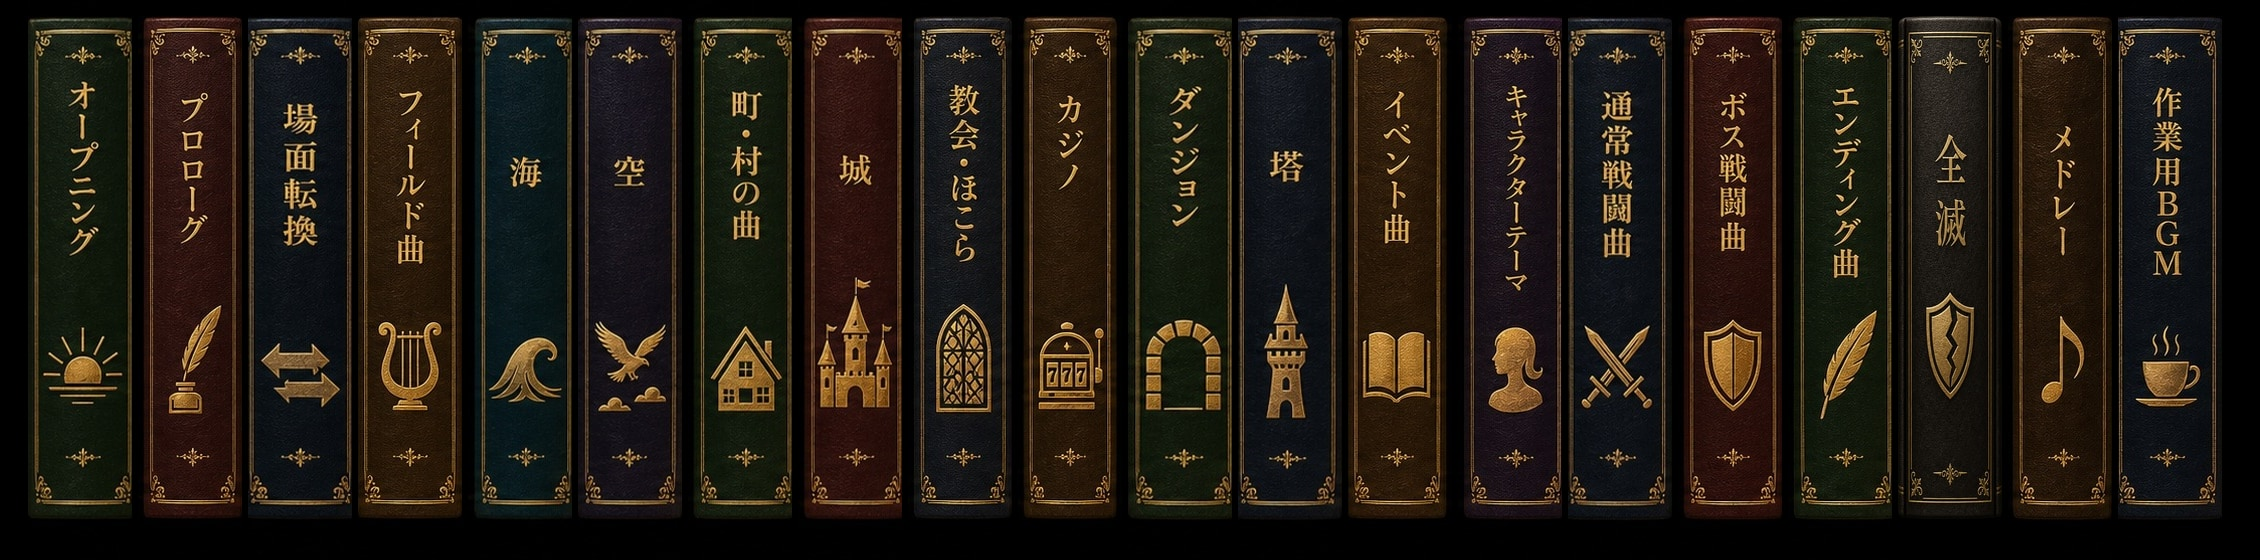
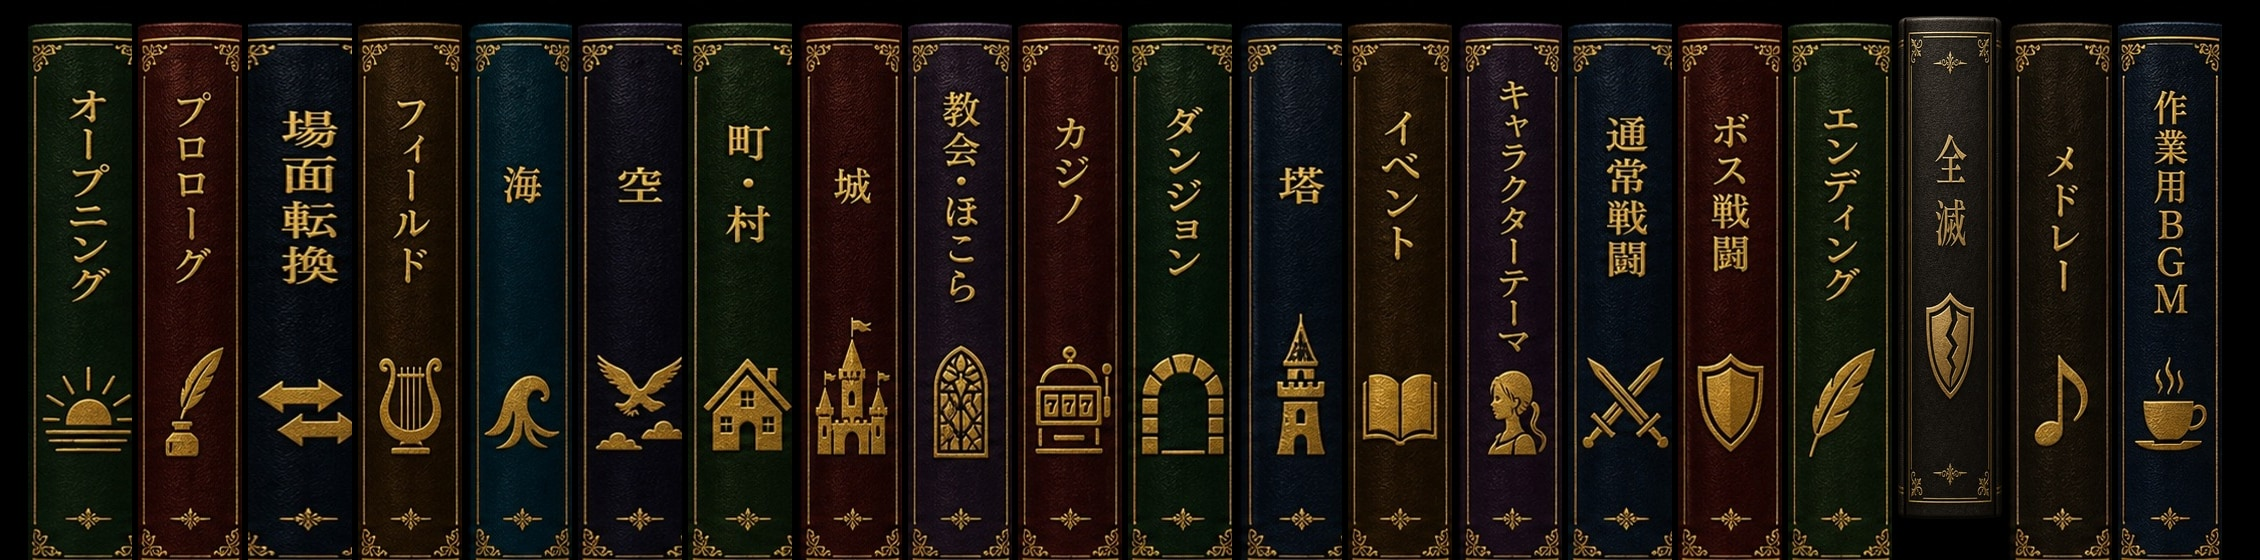
Refine bookshelf link alignment

Changed region(s): [[0.0, 0.0304, 0.8363, 1.0], [0.8673, 0.0304, 0.9912, 1.0]]

diff --git a/index.html b/index.html
@@ -214,7 +214,7 @@
   </header>
 
   <main class="page">
-    <section class="section seo-hub-links bookcase-library" id="seo-links"><div class="seo-hub-block bookcase-block"><div class="section-heading compact-heading shelf-heading"><p class="section-kicker">Series</p><h3>シリーズ別ライブラリー</h3></div><div class="bookcase-scroll bookcase-scroll-series" aria-label="シリーズ別ライブラリー"><div class="bookcase-shelf bookcase-shelf-series"><a class="book-spine book-spine-series tone-green" style="--book-index:0" href="/dq1/" aria-label="DQ I"><span class="book-spine-ornament" aria-hidden="true"></span><span class="book-spine-title">DQ</span> <span class="book-spine-code">I</span><span class="book-spine-subtitle">ドラゴンクエストI</span></a><a class="book-spine book-spine-series tone-wine" style="--book-index:1" href="/dq2/" aria-label="DQ II"><span class="book-spine-ornament" aria-hidden="true"></span><span class="book-spine-title">DQ</span> <span class="book-spine-code">II</span><span class="book-spine-subtitle">ドラゴンクエストII</span></a><a class="book-spine book-spine-series tone-navy" style="--book-index:2" href="/dq3/" aria-label="DQ III"><span class="book-spine-ornament" aria-hidden="true"></span><span class="book-spine-title">DQ</span> <span class="book-spine-code">III</span><span class="book-spine-subtitle">ドラゴンクエストIII</span></a><a class="book-spine book-spine-series tone-brown" style="--book-index:3" href="/dq4/" aria-label="DQ IV"><span class="book-spine-ornament" aria-hidden="true"></span><span class="book-spine-title">DQ</span> <span class="book-spine-code">IV</span><span class="book-spine-subtitle">ドラゴンクエストIV</span></a><a class="book-spine book-spine-series tone-purple" style="--book-index:4" href="/dq5/" aria-label="DQ V"><span class="book-spine-ornament" aria-hidden="true"></span><span class="book-spine-title">DQ</span> <span class="book-spine-code">V</span><span class="book-spine-subtitle">ドラゴンクエストV</span></a><a class="book-spine book-spine-series tone-olive" style="--book-index:5" href="/dq6/" aria-label="DQ VI"><span class="book-spine-ornament" aria-hidden="true"></span><span class="book-spine-title">DQ</span> <span class="book-spine-code">VI</span><span class="book-spine-subtitle">ドラゴンクエストVI</span></a><a class="book-spine book-spine-series tone-green" style="--book-index:6" href="/dq7/" aria-label="DQ VII"><span class="book-spine-ornament" aria-hidden="true"></span><span class="book-spine-title">DQ</span> <span class="book-spine-code">VII</span><span class="book-spine-subtitle">ドラゴンクエストVII</span></a><a class="book-spine book-spine-series tone-wine" style="--book-index:7" href="/dq8/" aria-label="DQ VIII"><span class="book-spine-ornament" aria-hidden="true"></span><span class="book-spine-title">DQ</span> <span class="book-spine-code">VIII</span><span class="book-spine-subtitle">ドラゴンクエストVIII</span></a><a class="book-spine book-spine-series tone-navy" style="--book-index:8" href="/dq9/" aria-label="DQ IX"><span class="book-spine-ornament" aria-hidden="true"></span><span class="book-spine-title">DQ</span> <span class="book-spine-code">IX</span><span class="book-spine-subtitle">ドラゴンクエストIX</span></a><a class="book-spine book-spine-series tone-brown" style="--book-index:9" href="/dq10/" aria-label="DQ X"><span class="book-spine-ornament" aria-hidden="true"></span><span class="book-spine-title">DQ</span> <span class="book-spine-code">X</span><span class="book-spine-subtitle">ドラゴンクエストX</span></a><a class="book-spine book-spine-series tone-purple" style="--book-index:10" href="/dq11/" aria-label="DQ XI"><span class="book-spine-ornament" aria-hidden="true"></span><span class="book-spine-title">DQ</span> <span class="book-spine-code">XI</span><span class="book-spine-subtitle">ドラゴンクエストXI</span></a></div></div></div><div class="seo-hub-block bookcase-block"><div class="section-heading compact-heading shelf-heading"><p class="section-kicker">Categories</p><h3>カテゴリ別ライブラリー</h3></div><div class="bookcase-scroll bookcase-scroll-category" aria-label="カテゴリ別ライブラリー"><div class="bookcase-shelf bookcase-shelf-category"><a class="book-spine book-spine-category tone-green" style="--book-index:0" href="/category/opening/" aria-label="オープニング"><span class="book-spine-ornament" aria-hidden="true"></span><span class="book-spine-title">オープニング</span> <span class="book-spine-icon" aria-hidden="true">◇</span><span class="book-spine-subtitle">カテゴリ別ページ</span></a><a class="book-spine book-spine-category tone-wine" style="--book-index:1" href="/category/prologue/" aria-label="プロローグ"><span class="book-spine-ornament" aria-hidden="true"></span><span class="book-spine-title">プロローグ</span> <span class="book-spine-icon" aria-hidden="true">♩</span><span class="book-spine-subtitle">カテゴリ別ページ</span></a><a class="book-spine book-spine-category tone-navy" style="--book-index:2" href="/category/interlude/" aria-label="場面転換"><span class="book-spine-ornament" aria-hidden="true"></span><span class="book-spine-title">場面転換</span> <span class="book-spine-icon" aria-hidden="true">↔</span><span class="book-spine-subtitle">カテゴリ別ページ</span></a><a class="book-spine book-spine-category tone-brown" style="--book-index:3" href="/category/field/" aria-label="フィールド曲"><span class="book-spine-ornament" aria-hidden="true"></span><span class="book-spine-title">フィールド曲</span> <span class="book-spine-icon" aria-hidden="true">♪</span><span class="book-spine-subtitle">カテゴリ別ページ</span></a><a class="book-spine book-spine-category tone-purple" style="--book-index:4" href="/category/sea/" aria-label="海"><span class="book-spine-ornament" aria-hidden="true"></span><span class="book-spine-title">海</span> <span class="book-spine-icon" aria-hidden="true">〜</span><span class="book-spine-subtitle">カテゴリ別ページ</span></a><a class="book-spine book-spine-category tone-olive" style="--book-index:5" href="/category/sky/" aria-label="空"><span class="book-spine-ornament" aria-hidden="true"></span><span class="book-spine-title">空</span> <span class="book-spine-icon" aria-hidden="true">◇</span><span class="book-spine-subtitle">カテゴリ別ページ</span></a><a class="book-spine book-spine-category tone-green" style="--book-index:6" href="/category/town-village/" aria-label="町・村の曲"><span class="book-spine-ornament" aria-hidden="true"></span><span class="book-spine-title">町・村の曲</span> <span class="book-spine-icon" aria-hidden="true">⌂</span><span class="book-spine-subtitle">カテゴリ別ページ</span></a><a class="book-spine book-spine-category tone-wine" style="--book-index:7" href="/category/castle/" aria-label="城"><span class="book-spine-ornament" aria-hidden="true"></span><span class="book-spine-title">城</span> <span class="book-spine-icon" aria-hidden="true">⌂</span><span class="book-spine-subtitle">カテゴリ別ページ</span></a><a class="book-spine book-spine-category tone-navy" style="--book-index:8" href="/category/church-shrine/" aria-label="教会・ほこら"><span class="book-spine-ornament" aria-hidden="true"></span><span class="book-spine-title">教会・ほこら</span> <span class="book-spine-icon" aria-hidden="true">◇</span><span class="book-spine-subtitle">カテゴリ別ページ</span></a><a class="book-spine book-spine-category tone-brown" style="--book-index:9" href="/category/casino/" aria-label="カジノ"><span class="book-spine-ornament" aria-hidden="true"></span><span class="book-spine-title">カジノ</span> <span class="book-spine-icon" aria-hidden="true">♬</span><span class="book-spine-subtitle">カテゴリ別ページ</span></a><a class="book-spine book-spine-category tone-purple" style="--book-index:10" href="/category/dungeon/" aria-label="ダンジョン"><span class="book-spine-ornament" aria-hidden="true"></span><span class="book-spine-title">ダンジョン</span> <span class="book-spine-icon" aria-hidden="true">◇</span><span class="book-spine-subtitle">カテゴリ別ページ</span></a><a class="book-spine book-spine-category tone-olive" style="--book-index:11" href="/category/tower/" aria-label="塔"><span class="book-spine-ornament" aria-hidden="true"></span><span class="book-spine-title">塔</span> <span class="book-spine-icon" aria-hidden="true">⌂</span><span class="book-spine-subtitle">カテゴリ別ページ</span></a><a class="book-spine book-spine-category tone-green" style="--book-index:12" href="/category/event/" aria-label="イベント曲"><span class="book-spine-ornament" aria-hidden="true"></span><span class="book-spine-title">イベント曲</span> <span class="book-spine-icon" aria-hidden="true">◇</span><span class="book-spine-subtitle">カテゴリ別ページ</span></a><a class="book-spine book-spine-category tone-wine" style="--book-index:13" href="/category/character-theme/" aria-label="キャラクターテーマ"><span class="book-spine-ornament" aria-hidden="true"></span><span class="book-spine-title">キャラクターテーマ</span> <span class="book-spine-icon" aria-hidden="true">♩</span><span class="book-spine-subtitle">カテゴリ別ページ</span></a><a class="book-spine book-spine-category tone-navy" style="--book-index:14" href="/category/normal-battle/" aria-label="通常戦闘曲"><span class="book-spine-ornament" aria-hidden="true"></span><span class="book-spine-title">通常戦闘曲</span> <span class="book-spine-icon" aria-hidden="true">♬</span><span class="book-spine-subtitle">カテゴリ別ページ</span></a><a class="book-spine book-spine-category tone-brown" style="--book-index:15" href="/category/boss-battle/" aria-label="ボス戦闘曲"><span class="book-spine-ornament" aria-hidden="true"></span><span class="book-spine-title">ボス戦闘曲</span> <span class="book-spine-icon" aria-hidden="true">♭</span><span class="book-spine-subtitle">カテゴリ別ページ</span></a><a class="book-spine book-spine-category tone-purple" style="--book-index:16" href="/category/ending/" aria-label="エンディング曲"><span class="book-spine-ornament" aria-hidden="true"></span><span class="book-spine-title">エンディング曲</span> <span class="book-spine-icon" aria-hidden="true">♩</span><span class="book-spine-subtitle">カテゴリ別ページ</span></a><a class="book-spine book-spine-category tone-olive" style="--book-index:17" href="/category/game-over/" aria-label="全滅"><span class="book-spine-ornament" aria-hidden="true"></span><span class="book-spine-title">全滅</span> <span class="book-spine-icon" aria-hidden="true">◇</span><span class="book-spine-subtitle">カテゴリ別ページ</span></a><a class="book-spine book-spine-category tone-green" style="--book-index:18" href="/category/medley/" aria-label="メドレー"><span class="book-spine-ornament" aria-hidden="true"></span><span class="book-spine-title">メドレー</span> <span class="book-spine-icon" aria-hidden="true">♫</span><span class="book-spine-subtitle">カテゴリ別ページ</span></a><a class="book-spine book-spine-category tone-wine" style="--book-index:19" href="/category/medley/" aria-label="作業用BGM"><span class="book-spine-ornament" aria-hidden="true"></span><span class="book-spine-title">作業用BGM</span> <span class="book-spine-icon" aria-hidden="true">♨</span><span class="book-spine-subtitle">メドレーを作業用BGMとして聴く</span></a></div></div></div></section>
+    <section class="section seo-hub-links bookcase-library" id="seo-links"><div class="seo-hub-block bookcase-block"><div class="section-heading compact-heading shelf-heading"><p class="section-kicker">Series</p><h3>シリーズ別ライブラリー</h3></div><div class="bookcase-scroll bookcase-scroll-series" aria-label="シリーズ別ライブラリー"><div class="bookcase-shelf bookcase-shelf-series"><a class="book-spine book-spine-series tone-green" style="--book-index:0" href="/dq1/" aria-label="DQ I"><span class="book-spine-ornament" aria-hidden="true"></span><span class="book-spine-title">DQ</span> <span class="book-spine-code">I</span><span class="book-spine-subtitle">ドラゴンクエストI</span></a><a class="book-spine book-spine-series tone-wine" style="--book-index:1" href="/dq2/" aria-label="DQ II"><span class="book-spine-ornament" aria-hidden="true"></span><span class="book-spine-title">DQ</span> <span class="book-spine-code">II</span><span class="book-spine-subtitle">ドラゴンクエストII</span></a><a class="book-spine book-spine-series tone-navy" style="--book-index:2" href="/dq3/" aria-label="DQ III"><span class="book-spine-ornament" aria-hidden="true"></span><span class="book-spine-title">DQ</span> <span class="book-spine-code">III</span><span class="book-spine-subtitle">ドラゴンクエストIII</span></a><a class="book-spine book-spine-series tone-brown" style="--book-index:3" href="/dq4/" aria-label="DQ IV"><span class="book-spine-ornament" aria-hidden="true"></span><span class="book-spine-title">DQ</span> <span class="book-spine-code">IV</span><span class="book-spine-subtitle">ドラゴンクエストIV</span></a><a class="book-spine book-spine-series tone-purple" style="--book-index:4" href="/dq5/" aria-label="DQ V"><span class="book-spine-ornament" aria-hidden="true"></span><span class="book-spine-title">DQ</span> <span class="book-spine-code">V</span><span class="book-spine-subtitle">ドラゴンクエストV</span></a><a class="book-spine book-spine-series tone-olive" style="--book-index:5" href="/dq6/" aria-label="DQ VI"><span class="book-spine-ornament" aria-hidden="true"></span><span class="book-spine-title">DQ</span> <span class="book-spine-code">VI</span><span class="book-spine-subtitle">ドラゴンクエストVI</span></a><a class="book-spine book-spine-series tone-green" style="--book-index:6" href="/dq7/" aria-label="DQ VII"><span class="book-spine-ornament" aria-hidden="true"></span><span class="book-spine-title">DQ</span> <span class="book-spine-code">VII</span><span class="book-spine-subtitle">ドラゴンクエストVII</span></a><a class="book-spine book-spine-series tone-wine" style="--book-index:7" href="/dq8/" aria-label="DQ VIII"><span class="book-spine-ornament" aria-hidden="true"></span><span class="book-spine-title">DQ</span> <span class="book-spine-code">VIII</span><span class="book-spine-subtitle">ドラゴンクエストVIII</span></a><a class="book-spine book-spine-series tone-navy" style="--book-index:8" href="/dq9/" aria-label="DQ IX"><span class="book-spine-ornament" aria-hidden="true"></span><span class="book-spine-title">DQ</span> <span class="book-spine-code">IX</span><span class="book-spine-subtitle">ドラゴンクエストIX</span></a><a class="book-spine book-spine-series tone-brown" style="--book-index:9" href="/dq10/" aria-label="DQ X"><span class="book-spine-ornament" aria-hidden="true"></span><span class="book-spine-title">DQ</span> <span class="book-spine-code">X</span><span class="book-spine-subtitle">ドラゴンクエストX</span></a><a class="book-spine book-spine-series tone-purple" style="--book-index:10" href="/dq11/" aria-label="DQ XI"><span class="book-spine-ornament" aria-hidden="true"></span><span class="book-spine-title">DQ</span> <span class="book-spine-code">XI</span><span class="book-spine-subtitle">ドラゴンクエストXI</span></a></div></div></div><div class="seo-hub-block bookcase-block"><div class="section-heading compact-heading shelf-heading"><p class="section-kicker">Categories</p><h3>カテゴリ別ライブラリー</h3></div><div class="bookcase-scroll bookcase-scroll-category" aria-label="カテゴリ別ライブラリー"><div class="bookcase-shelf bookcase-shelf-category"><a class="book-spine book-spine-category tone-green" style="--book-index:0" href="/category/opening/" aria-label="オープニング"><span class="book-spine-ornament" aria-hidden="true"></span><span class="book-spine-title">オープニング</span> <span class="book-spine-icon" aria-hidden="true">◇</span><span class="book-spine-subtitle">カテゴリ別ページ</span></a><a class="book-spine book-spine-category tone-wine" style="--book-index:1" href="/category/prologue/" aria-label="プロローグ"><span class="book-spine-ornament" aria-hidden="true"></span><span class="book-spine-title">プロローグ</span> <span class="book-spine-icon" aria-hidden="true">♩</span><span class="book-spine-subtitle">カテゴリ別ページ</span></a><a class="book-spine book-spine-category tone-navy" style="--book-index:2" href="/category/interlude/" aria-label="場面転換"><span class="book-spine-ornament" aria-hidden="true"></span><span class="book-spine-title">場面転換</span> <span class="book-spine-icon" aria-hidden="true">↔</span><span class="book-spine-subtitle">カテゴリ別ページ</span></a><a class="book-spine book-spine-category tone-brown" style="--book-index:3" href="/category/field/" aria-label="フィールド"><span class="book-spine-ornament" aria-hidden="true"></span><span class="book-spine-title">フィールド</span> <span class="book-spine-icon" aria-hidden="true">♪</span><span class="book-spine-subtitle">カテゴリ別ページ</span></a><a class="book-spine book-spine-category tone-purple" style="--book-index:4" href="/category/sea/" aria-label="海"><span class="book-spine-ornament" aria-hidden="true"></span><span class="book-spine-title">海</span> <span class="book-spine-icon" aria-hidden="true">〜</span><span class="book-spine-subtitle">カテゴリ別ページ</span></a><a class="book-spine book-spine-category tone-olive" style="--book-index:5" href="/category/sky/" aria-label="空"><span class="book-spine-ornament" aria-hidden="true"></span><span class="book-spine-title">空</span> <span class="book-spine-icon" aria-hidden="true">◇</span><span class="book-spine-subtitle">カテゴリ別ページ</span></a><a class="book-spine book-spine-category tone-green" style="--book-index:6" href="/category/town-village/" aria-label="町・村"><span class="book-spine-ornament" aria-hidden="true"></span><span class="book-spine-title">町・村</span> <span class="book-spine-icon" aria-hidden="true">⌂</span><span class="book-spine-subtitle">カテゴリ別ページ</span></a><a class="book-spine book-spine-category tone-wine" style="--book-index:7" href="/category/castle/" aria-label="城"><span class="book-spine-ornament" aria-hidden="true"></span><span class="book-spine-title">城</span> <span class="book-spine-icon" aria-hidden="true">⌂</span><span class="book-spine-subtitle">カテゴリ別ページ</span></a><a class="book-spine book-spine-category tone-navy" style="--book-index:8" href="/category/church-shrine/" aria-label="教会・ほこら"><span class="book-spine-ornament" aria-hidden="true"></span><span class="book-spine-title">教会・ほこら</span> <span class="book-spine-icon" aria-hidden="true">◇</span><span class="book-spine-subtitle">カテゴリ別ページ</span></a><a class="book-spine book-spine-category tone-brown" style="--book-index:9" href="/category/casino/" aria-label="カジノ"><span class="book-spine-ornament" aria-hidden="true"></span><span class="book-spine-title">カジノ</span> <span class="book-spine-icon" aria-hidden="true">♬</span><span class="book-spine-subtitle">カテゴリ別ページ</span></a><a class="book-spine book-spine-category tone-purple" style="--book-index:10" href="/category/dungeon/" aria-label="ダンジョン"><span class="book-spine-ornament" aria-hidden="true"></span><span class="book-spine-title">ダンジョン</span> <span class="book-spine-icon" aria-hidden="true">◇</span><span class="book-spine-subtitle">カテゴリ別ページ</span></a><a class="book-spine book-spine-category tone-olive" style="--book-index:11" href="/category/tower/" aria-label="塔"><span class="book-spine-ornament" aria-hidden="true"></span><span class="book-spine-title">塔</span> <span class="book-spine-icon" aria-hidden="true">⌂</span><span class="book-spine-subtitle">カテゴリ別ページ</span></a><a class="book-spine book-spine-category tone-green" style="--book-index:12" href="/category/event/" aria-label="イベント"><span class="book-spine-ornament" aria-hidden="true"></span><span class="book-spine-title">イベント</span> <span class="book-spine-icon" aria-hidden="true">◇</span><span class="book-spine-subtitle">カテゴリ別ページ</span></a><a class="book-spine book-spine-category tone-wine" style="--book-index:13" href="/category/character-theme/" aria-label="キャラクターテーマ"><span class="book-spine-ornament" aria-hidden="true"></span><span class="book-spine-title">キャラクターテーマ</span> <span class="book-spine-icon" aria-hidden="true">♩</span><span class="book-spine-subtitle">カテゴリ別ページ</span></a><a class="book-spine book-spine-category tone-navy" style="--book-index:14" href="/category/normal-battle/" aria-label="通常戦闘"><span class="book-spine-ornament" aria-hidden="true"></span><span class="book-spine-title">通常戦闘</span> <span class="book-spine-icon" aria-hidden="true">♬</span><span class="book-spine-subtitle">カテゴリ別ページ</span></a><a class="book-spine book-spine-category tone-brown" style="--book-index:15" href="/category/boss-battle/" aria-label="ボス戦闘"><span class="book-spine-ornament" aria-hidden="true"></span><span class="book-spine-title">ボス戦闘</span> <span class="book-spine-icon" aria-hidden="true">♭</span><span class="book-spine-subtitle">カテゴリ別ページ</span></a><a class="book-spine book-spine-category tone-purple" style="--book-index:16" href="/category/ending/" aria-label="エンディング"><span class="book-spine-ornament" aria-hidden="true"></span><span class="book-spine-title">エンディング</span> <span class="book-spine-icon" aria-hidden="true">♩</span><span class="book-spine-subtitle">カテゴリ別ページ</span></a><a class="book-spine book-spine-category tone-olive" style="--book-index:17" href="/category/game-over/" aria-label="全滅"><span class="book-spine-ornament" aria-hidden="true"></span><span class="book-spine-title">全滅</span> <span class="book-spine-icon" aria-hidden="true">◇</span><span class="book-spine-subtitle">カテゴリ別ページ</span></a><a class="book-spine book-spine-category tone-green" style="--book-index:18" href="/category/medley/" aria-label="メドレー"><span class="book-spine-ornament" aria-hidden="true"></span><span class="book-spine-title">メドレー</span> <span class="book-spine-icon" aria-hidden="true">♫</span><span class="book-spine-subtitle">カテゴリ別ページ</span></a><a class="book-spine book-spine-category tone-wine" style="--book-index:19" href="/category/medley/" aria-label="作業用BGM"><span class="book-spine-ornament" aria-hidden="true"></span><span class="book-spine-title">作業用BGM</span> <span class="book-spine-icon" aria-hidden="true">♨</span><span class="book-spine-subtitle">メドレーを作業用BGMとして聴く</span></a></div></div></div></section>
 
 
 

diff --git a/styles.css b/styles.css
@@ -2169,6 +2169,61 @@ h1 {
   width: 7.55%;
 }
 
+.book-spine-series:nth-child(1) {
+  left: 5.599%;
+  width: 6.748%;
+}
+
+.book-spine-series:nth-child(2) {
+  left: 13.496%;
+  width: 7.538%;
+}
+
+.book-spine-series:nth-child(3) {
+  left: 21.752%;
+  width: 7.681%;
+}
+
+.book-spine-series:nth-child(4) {
+  left: 30.366%;
+  width: 7.394%;
+}
+
+.book-spine-series:nth-child(5) {
+  left: 38.622%;
+  width: 7.179%;
+}
+
+.book-spine-series:nth-child(6) {
+  left: 46.518%;
+  width: 7.753%;
+}
+
+.book-spine-series:nth-child(7) {
+  left: 54.702%;
+  width: 7.681%;
+}
+
+.book-spine-series:nth-child(8) {
+  left: 63.317%;
+  width: 7.609%;
+}
+
+.book-spine-series:nth-child(9) {
+  left: 71.572%;
+  width: 7.681%;
+}
+
+.book-spine-series:nth-child(10) {
+  left: 80.258%;
+  width: 7.466%;
+}
+
+.book-spine-series:nth-child(11) {
+  left: 88.514%;
+  width: 7.251%;
+}
+
 .book-spine-category {
   top: 2.5%;
   bottom: 5.5%;

diff --git a/build-seo-pages.py b/build-seo-pages.py
@@ -440,20 +440,20 @@ CATEGORY_LIBRARY = [
     ('opening', 'オープニング', 'Opening', '◇'),
     ('prologue', 'プロローグ', 'Prologue', '♩'),
     ('interlude', '場面転換', 'Transition', '↔'),
-    ('field', 'フィールド曲', 'Field', '♪'),
+    ('field', 'フィールド', 'Field', '♪'),
     ('sea', '海', 'Ocean', '〜'),
     ('sky', '空', 'Sky', '◇'),
-    ('town-village', '町・村の曲', 'Town & Village', '⌂'),
+    ('town-village', '町・村', 'Town & Village', '⌂'),
     ('castle', '城', 'Castle', '⌂'),
     ('church-shrine', '教会・ほこら', 'Church & Shrine', '◇'),
     ('casino', 'カジノ', 'Casino', '♬'),
     ('dungeon', 'ダンジョン', 'Dungeon', '◇'),
     ('tower', '塔', 'Tower', '⌂'),
-    ('event', 'イベント曲', 'Event', '◇'),
+    ('event', 'イベント', 'Event', '◇'),
     ('character-theme', 'キャラクターテーマ', 'Character', '♩'),
-    ('normal-battle', '通常戦闘曲', 'Regular Battle', '♬'),
-    ('boss-battle', 'ボス戦闘曲', 'Boss Battle', '♭'),
-    ('ending', 'エンディング曲', 'Ending', '♩'),
+    ('normal-battle', '通常戦闘', 'Regular Battle', '♬'),
+    ('boss-battle', 'ボス戦闘', 'Boss Battle', '♭'),
+    ('ending', 'エンディング', 'Ending', '♩'),
     ('game-over', '全滅', 'Defeat', '◇'),
     ('medley', 'メドレー', 'Medley', '♫'),
     ('medley', '作業用BGM', 'Work & Study BGM', '♨'),
